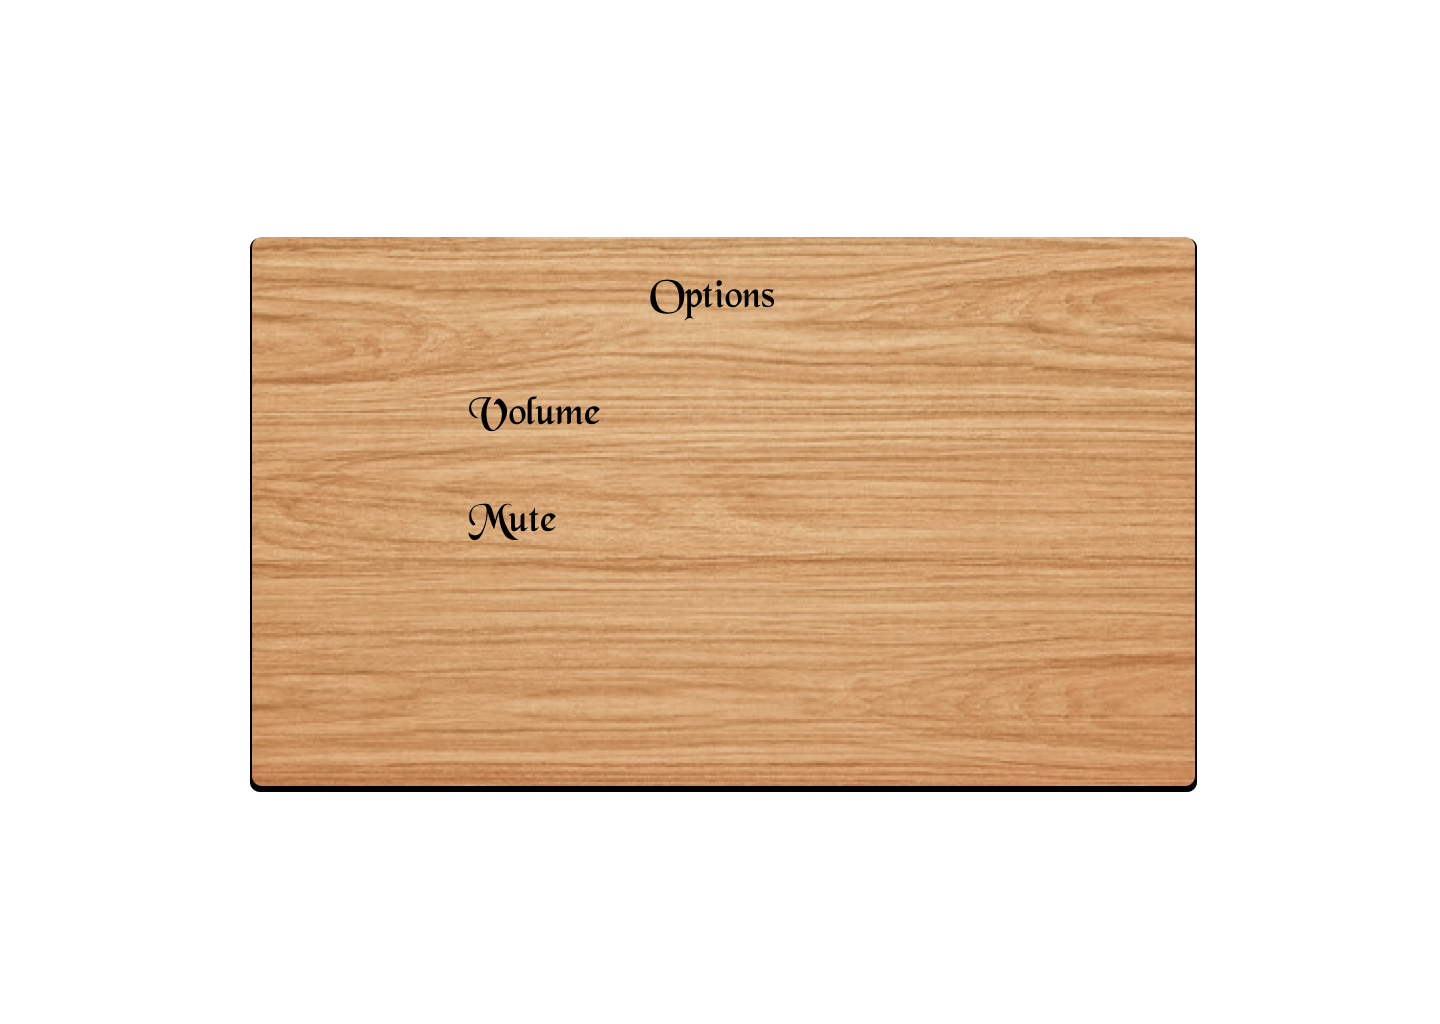
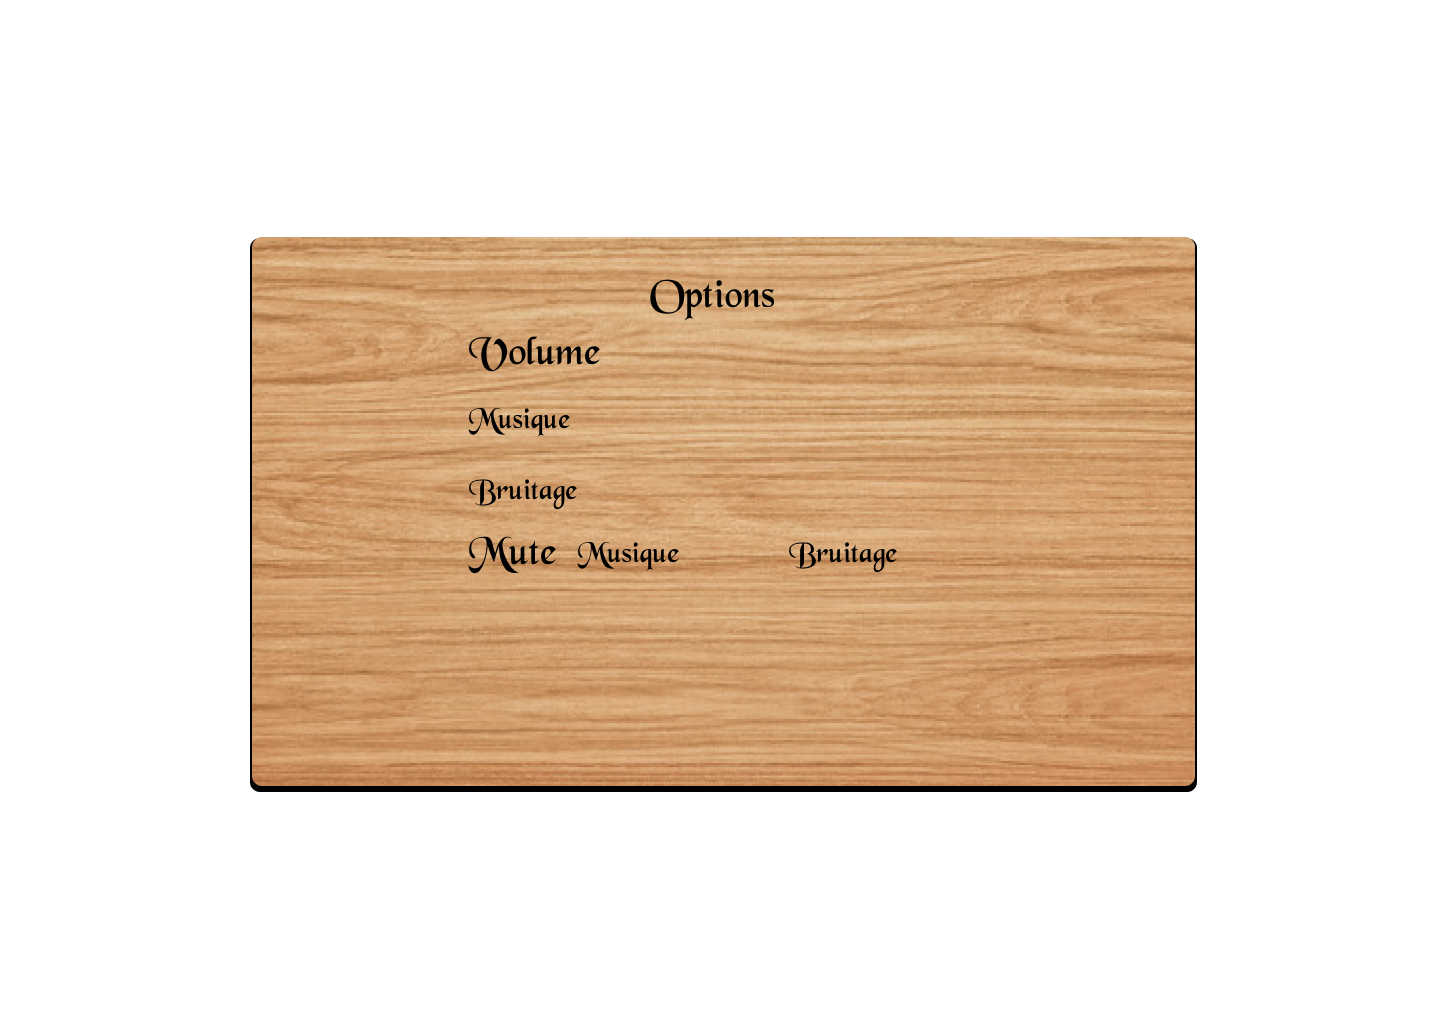
update menu

Changed region(s): [[0.3125, 0.4688, 0.4688, 0.5625], [0.3125, 0.3125, 0.4062, 0.4375], [0.5312, 0.5312, 0.625, 0.5625]]

diff --git a/game.py b/game.py
@@ -332,6 +332,24 @@ class Game():
                             self.options.song_check_checked = False
                         else:
                             self.options.song_check_checked = True
+                    if self.options.soundM_rect.collidepoint(pygame.mouse.get_pos()):
+                        self.options.sound_niv -= 0.1
+                        if self.options.sound_niv <= 0.1:
+                            self.options.sound_niv = 0.1
+                        pygame.mixer.music.set_volume(self.options.sound_niv)
+                        self.options.sound = pygame.image.load("assets/song_" + str(int(self.options.sound_niv * 10)) + ".png")
+                    if self.options.soundP_rect.collidepoint(pygame.mouse.get_pos()):
+                        self.options.sound_niv += 0.1
+                        if self.options.sound_niv >= 1:
+                            self.options.sound_niv = 1
+                        pygame.mixer.music.set_volume(self.options.sound_niv)
+                        self.options.sound = pygame.image.load("assets/song_" + str(int(self.options.sound_niv * 10)) + ".png")
+                    if self.options.sound_check_rect.collidepoint(pygame.mouse.get_pos()):
+                        if self.options.sound_check_checked:
+                            self.options.sound_check_checked = False
+                        else:
+                            self.options.sound_check_checked = True
+
                     if self.options.rules_button_rect.collidepoint(pygame.mouse.get_pos()):
                         self.curr_menu = self.regles
                         self.curr_menu.display_menu()
@@ -482,25 +500,25 @@ class Game():
             self.Priere_misericordieuse = Priere_misericordieuse(self.game, "Priere misericordieuse", "Acier")
             self.Coup_de_chance = Coup_de_chance(self.game, "Coup de chance", "Acier")
             self.Avantage_du_nombre = Avantage_du_nombre(self.game, "Avantage du nombre", "Acier")
-    
+
     class Liste_mot():
         def __init__(self,game):
             self.game = game
             #Groupe nominaux
             self.votre_apparence = votre_apparence(self.game,"votre_apparence", "Groupe nominaux")
-            self.votre_prose = votre_prose(self.game, "votre_prose", "Groupe nominaux") 
+            self.votre_prose = votre_prose(self.game, "votre_prose", "Groupe nominaux")
             self.rien_que_vous_ecouter_jouter = rien_que_vous_ecouter_jouter(self.game, "rien_que_vous_ecouter_jouter","Groupe nominaux")
-            self.voyou_a_la_petite_semaine = voyou_a_la_petite_semaine(self.game, "voyou_a_la_petite_semaine", "Groupe nominaux") 
-            self.votre_talent = votre_talent(self.game, "votre_talent", "Groupe nominaux") 
-            self.certains = certains(self.game, "certains", "Groupe nominaux") 
-            self.une_lice = une_lice(self.game, "une_lice", "Groupe nominaux") 
+            self.voyou_a_la_petite_semaine = voyou_a_la_petite_semaine(self.game, "voyou_a_la_petite_semaine", "Groupe nominaux")
+            self.votre_talent = votre_talent(self.game, "votre_talent", "Groupe nominaux")
+            self.certains = certains(self.game, "certains", "Groupe nominaux")
+            self.une_lice = une_lice(self.game, "une_lice", "Groupe nominaux")
             self.affronter_une_gamine = affronter_une_gamine(self.game, "affronter_une_gamine", "Groupe nominaux")
             self.ton_style = ton_style(self.game, "ton_style", "Groupe nominaux")
             self.pour_toi = pour_toi(self.game, "pour_toi", "Groupe nominaux")
             self.ton_manque_dexperience = ton_manque_dexperience(self.game, "ton_manque_dexperience", "Groupe nominaux")
             self.perroquet_frippe = perroquet_frippe(self.game, "perroquet_frippe", "Groupe nominaux")
             self.la_tension = la_tension(self.game, "la_tension", "Groupe nominaux")
-            self.oh_petite_precieuse = oh_petite_precieuse(self.game, "oh_petite_precieuse", "Groupe nominaux")  
+            self.oh_petite_precieuse = oh_petite_precieuse(self.game, "oh_petite_precieuse", "Groupe nominaux")
             #Groupes Nominaux / complements
             self.petit_servant = petit_servant(self.game, "petit_servant", "Groupes Nominaux / complements")
             self.faquin = faquin(self.game, "faquin", "Groupes Nominaux / complements")

diff --git a/menu.py b/menu.py
@@ -1,4 +1,5 @@
 import pygame
+from sound import *
 
 class Menu():
     def __init__(self, game):
@@ -57,12 +58,18 @@ class MainMenu(Menu):
 class OptionsMenu(Menu):
     def __init__(self, game):
         Menu.__init__(self, game)
-        self.volx, self.voly = self.mid_w, self.mid_h + 10
+        self.volx, self.voly = self.mid_w, self.mid_h + 40
+        self.volsoundx, self.volsoundy = self.mid_w + 215, self.mid_h + 40
         self.closex, self.closey = self.game.DISPLAY_W - 300, self.mid_h - 210
         self.controlsx, self.controlsy = self.mid_w, self.mid_h + 100
+
         self.songx, self.songy = self.mid_w + 135, self.mid_h - 105
         self.songPx, self.songPy = self.mid_w + 265, self.mid_h - 105
         self.songMx, self.songMy = self.mid_w, self.mid_h - 98
+
+        self.soundx, self.soundy = self.mid_w + 135, self.mid_h - 25
+        self.soundPx, self.soundPy = self.mid_w + 265, self.mid_h - 25
+        self.soundMx, self.soundMy = self.mid_w, self.mid_h - 18
         self.rulesx, self.rulesy = self.mid_w, self.mid_h + 150
         self.option = False
 
@@ -72,6 +79,11 @@ class OptionsMenu(Menu):
         self.song_check = pygame.image.load("assets/button_check_false.png")
         self.song_check_rect = self.song_check.get_rect()
         self.song_check_rect.center = (self.volx, self.voly)
+
+        self.sound_check_checked = False
+        self.sound_check = pygame.image.load("assets/button_check_false.png")
+        self.sound_check_rect = self.sound_check.get_rect()
+        self.sound_check_rect.center = (self.volsoundx, self.volsoundy)
 
         self.close_option = pygame.image.load("assets/close.png")
         self.close_option_rect = self.close_option.get_rect()
@@ -88,6 +100,18 @@ class OptionsMenu(Menu):
         self.songM_rect.center = (self.songMx, self.songMy)
         self.song_niv = 0.5
 
+
+        self.sound = pygame.image.load("assets/song_5.png")
+        self.sound_rect = self.sound.get_rect()
+        self.sound_rect.center = (self.soundx, self.soundy)
+        self.soundP = pygame.image.load("assets/song+.png")
+        self.soundP_rect = self.soundP.get_rect()
+        self.soundP_rect.center = (self.soundPx, self.soundPy)
+        self.soundM = pygame.image.load("assets/song-.png")
+        self.soundM_rect = self.soundM.get_rect()
+        self.soundM_rect.center = (self.soundMx, self.soundMy)
+        self.sound_niv = 0.5
+
         self.rules_button = pygame.image.load("assets/menu/button_rules.png")
         self.rules_button_rect = self.rules_button.get_rect()
         self.rules_button_rect.center = (self.rulesx, self.rulesy)
@@ -102,6 +126,15 @@ class OptionsMenu(Menu):
             pygame.mixer.music.set_volume(self.song_niv)
             self.song_check_rect.center = (self.volx, self.voly)
 
+        if self.sound_check_checked:
+            self.sound_check = pygame.image.load("assets/button_check_true.png")
+            click_sound.set_volume(0)
+            self.sound_check_rect.center = (self.volsoundx - 7, self.volsoundy - 14)
+        else:
+            self.sound_check = pygame.image.load("assets/button_check_false.png")
+            click_sound.set_volume(self.sound_niv)
+            self.sound_check_rect.center = (self.volsoundx, self.volsoundy)
+
     def display_menu(self):
         self.option = True
         self.run_display = True
@@ -113,6 +146,10 @@ class OptionsMenu(Menu):
             self.game.display.blit(self.songP, self.songP_rect)
             self.game.display.blit(self.song, self.song_rect)
             self.game.display.blit(self.songM, self.songM_rect)
+            self.game.display.blit(self.sound_check, self.sound_check_rect)
+            self.game.display.blit(self.soundP, self.soundP_rect)
+            self.game.display.blit(self.sound, self.sound_rect)
+            self.game.display.blit(self.soundM, self.soundM_rect)
             self.game.display.blit(self.rules_button, self.rules_button_rect)
             self.game.display.blit(self.close_option, self.close_option_rect)
             self.update_screen()
